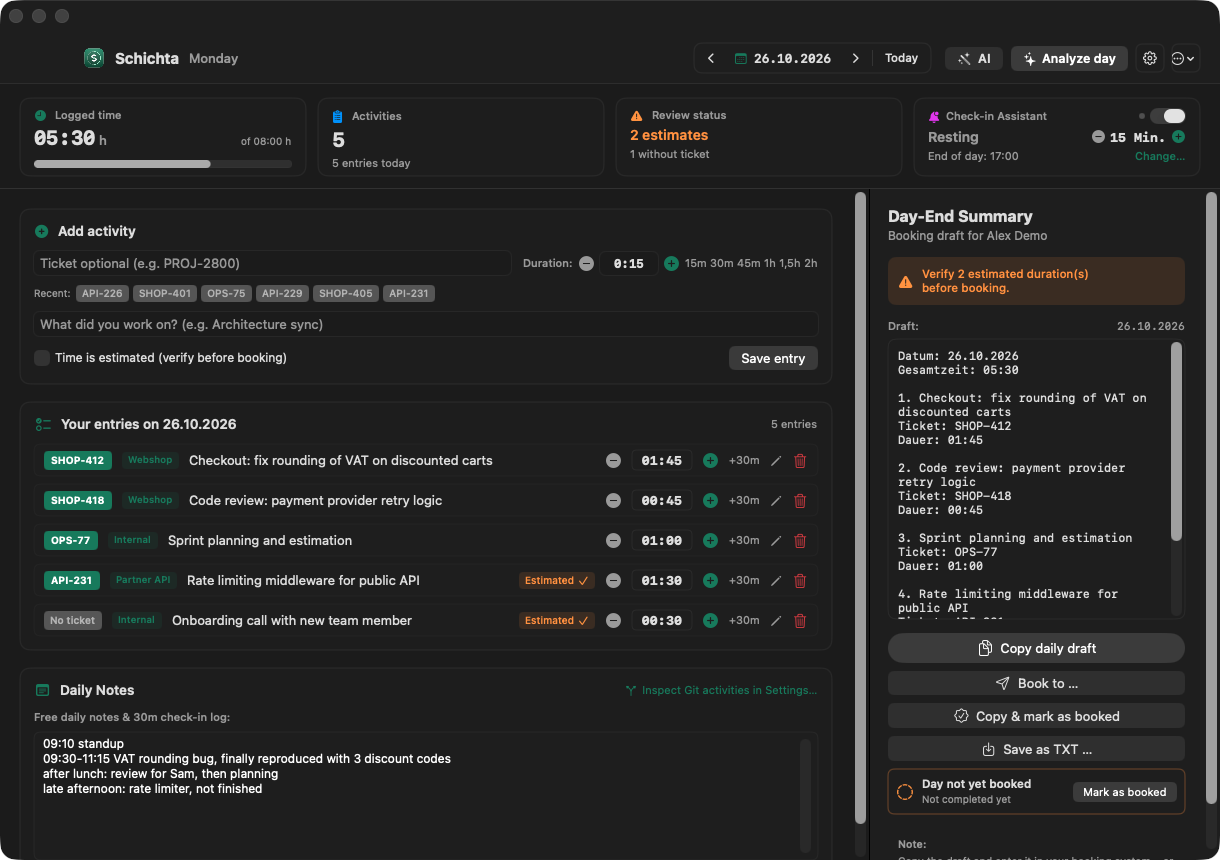
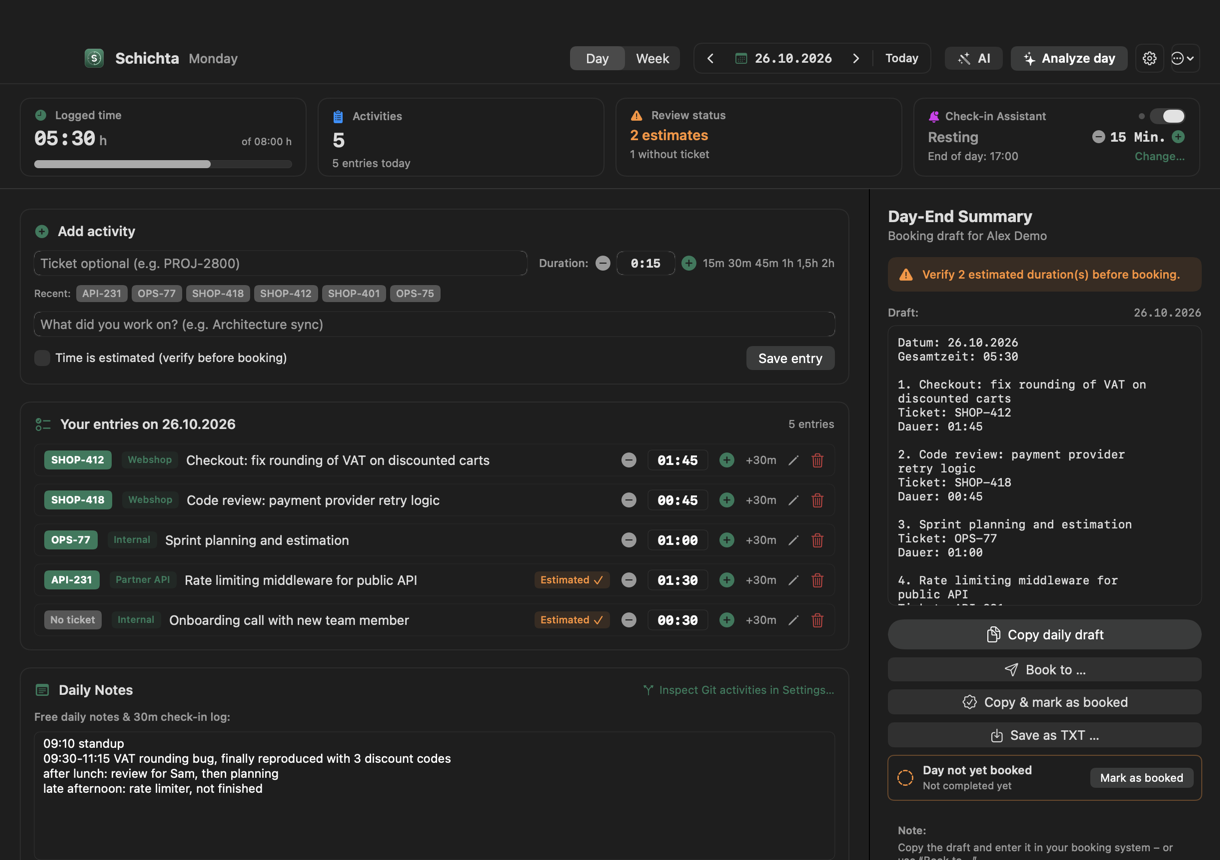
README: quick start, grouped features, shortcuts, new screenshots
- Quick start, features grouped by capture / review / week, keyboard
  shortcuts, time step, overtime account, week booking and CSV export.
- Retake the main window screenshot and add one of the week overview,
  both from demo data.
- SCHICHTA_DATA_DIR runs Schichta on a separate data folder and defaults
  domain (local.schichta.data-dir), so demo data never touches real
  entries or settings.
- --snapshot takes --date and draws the window background, so views
  without their own background render correctly in dark mode.

diff --git a/Sources/Schichta/Support.swift b/Sources/Schichta/Support.swift
@@ -85,14 +85,28 @@ struct SchichtaError: LocalizedError {
 }
 
 enum AppPaths {
-    /// ~/Library/Application Support/Schichta (created on demand).
+    /// SCHICHTA_DATA_DIR runs Schichta on separate data (e.g. demo data for screenshots): the data folder
+    /// moves there and settings go to their own defaults domain, so real entries and settings stay untouched.
+    static let dataDirOverride: String? = ProcessInfo.processInfo.environment["SCHICHTA_DATA_DIR"].flatMap { $0.isEmpty ? nil : $0 }
+
+    /// ~/Library/Application Support/Schichta, or SCHICHTA_DATA_DIR (created on demand).
     static let support: URL = {
-        let base = (try? FileManager.default.url(for: .applicationSupportDirectory, in: .userDomainMask, appropriateFor: nil, create: true))
-            ?? FileManager.default.temporaryDirectory
-        let dir = base.appendingPathComponent("Schichta", isDirectory: true)
+        let dir: URL
+        if let dataDirOverride {
+            dir = URL(fileURLWithPath: dataDirOverride, isDirectory: true)
+        } else {
+            let base = (try? FileManager.default.url(for: .applicationSupportDirectory, in: .userDomainMask, appropriateFor: nil, create: true))
+                ?? FileManager.default.temporaryDirectory
+            dir = base.appendingPathComponent("Schichta", isDirectory: true)
+        }
         try? FileManager.default.createDirectory(at: dir, withIntermediateDirectories: true)
         return dir
     }()
+
+    /// The app's settings, or the `local.schichta.data-dir` domain when SCHICHTA_DATA_DIR is set.
+    static var defaults: UserDefaults {
+        dataDirOverride == nil ? .standard : UserDefaults(suiteName: "local.schichta.data-dir")!
+    }
 }
 
 /// Runs a program with a timeout and collects its output.

diff --git a/Sources/Schichta/main.swift b/Sources/Schichta/main.swift
@@ -21,14 +21,21 @@ if CommandLine.arguments.contains("--generate-icon") {
     }
 } else if let idx = CommandLine.arguments.firstIndex(of: "--snapshot"), idx + 1 < CommandLine.arguments.count {
     // Dev tool: renders the main views offscreen as PNGs (layout check without screen recording).
+    // `--date YYYY-MM-DD` renders that day and its week instead of today.
     let outDir = URL(fileURLWithPath: CommandLine.arguments[idx + 1])
     try? FileManager.default.createDirectory(at: outDir, withIntermediateDirectories: true)
     _ = NSApplication.shared
     let store = SchichtaStore()
+    if let dateIdx = CommandLine.arguments.firstIndex(of: "--date"), dateIdx + 1 < CommandLine.arguments.count {
+        store.selectDay(CommandLine.arguments[dateIdx + 1])
+    }
 
     func render<V: View>(_ view: V, _ size: NSSize, _ name: String) {
         for (suffix, appearance) in [("light", NSAppearance.Name.aqua), ("dark", .darkAqua)] {
-            let host = NSHostingView(rootView: view)
+            // cacheDisplay skips the window's own background, which views without one (the week view) show through.
+            let host = NSHostingView(rootView: view
+                .background(Color(nsColor: .windowBackgroundColor))
+                .environment(\.colorScheme, appearance == .darkAqua ? .dark : .light))
             let win = NSWindow(contentRect: NSRect(origin: .zero, size: size), styleMask: [.titled, .fullSizeContentView], backing: .buffered, defer: false)
             win.appearance = NSAppearance(named: appearance)
             win.contentView = host

diff --git a/Sources/Schichta/Store/SchichtaStore.swift b/Sources/Schichta/Store/SchichtaStore.swift
@@ -204,7 +204,7 @@ class SchichtaStore: ObservableObject {
     }
 
     /// `storeURL` and `defaults` are injectable so tests never touch real entries or settings.
-    init(storeURL: URL = AppPaths.support.appendingPathComponent("schichta.json"), defaults: UserDefaults = .standard) {
+    init(storeURL: URL = AppPaths.support.appendingPathComponent("schichta.json"), defaults: UserDefaults = AppPaths.defaults) {
         try? FileManager.default.createDirectory(at: storeURL.deletingLastPathComponent(), withIntermediateDirectories: true)
         self.storeURL = storeURL
         self.defaults = defaults

diff --git a/Sources/Schichta/AppDelegate.swift b/Sources/Schichta/AppDelegate.swift
@@ -106,7 +106,7 @@ class AppDelegate: NSObject, NSApplicationDelegate, UNUserNotificationCenterDele
 
     func applicationDidFinishLaunching(_ notification: Notification) {
         // Apply the saved time zone before the store computes "today".
-        AppTime.use(AppTime.zone(forIdentifier: UserDefaults.standard.string(forKey: SchichtaStore.timeZoneKey) ?? ""))
+        AppTime.use(AppTime.zone(forIdentifier: AppPaths.defaults.string(forKey: SchichtaStore.timeZoneKey) ?? ""))
         self.store = SchichtaStore()
         AppLanguage.current = store.appLanguage
         applyDockVisibility()

diff --git a/README.md b/README.md
@@ -18,7 +18,9 @@ model, and you can make it a fully local one.
 ## Contents
 
 - [Why Schichta?](#why-schichta)
+- [Quick start](#quick-start)
 - [Features](#features)
+- [Keyboard shortcuts](#keyboard-shortcuts)
 - [Privacy: what Schichta does and does not send](#privacy-what-schichta-does-and-does-not-send)
 - [AI-ready: bring your own model](#ai-ready-bring-your-own-model)
 - [Install](#install)
@@ -52,31 +54,68 @@ your Mac only through a destination you set up yourself: an AI command, a bookin
 hook. AI and booking requests are shown to you in full before anything is sent. Details in
 [Privacy](#privacy-what-schichta-does-and-does-not-send).
 
+## Quick start
+
+1. [Install](#install) Schichta and open it. Its icon appears in the menu bar.
+2. In **Settings › Work Hours & Prompts**, set your working days, hours, daily target and check-in interval.
+3. In **Settings › Git Repos & Inspector**, add the repositories you work in, optionally with a project name and a
+   default ticket each.
+4. Work as usual. When the check-in pops up, type one line and press Enter.
+5. At the end of the day, open the main window, confirm or fix the estimated entries, and book the
+   day: copy the draft, or send it to a [booking target](#integrations).
+
 ## Features
+
+### Capture during the day
 
 - **Menu bar check-ins.** A check-in panel pops up at your chosen interval without stealing the
   keyboard from what you're typing (or press `⌥⌘K` from any app). Save the answer as a timestamped
   note or directly as an estimated entry, or repeat the last one with one click. Unanswered check-ins
-  send a notification after 3 minutes that you can answer in place.
+  send a notification after 3 minutes that you can answer in place. A dot on the menu bar icon shows
+  that a check-in is due.
 - **Away and lunch.** After time away from the Mac (idle, sleep, locked screen) Schichta asks what the
   gap was: a meeting or a break. Before lunch it asks what you did in the morning.
-- **Week overview.** Totals against your weekly target, the week's balance and a running overtime
-  account, booked and open days, time per ticket and project. Copy the week as text, export the month
-  as CSV, or book all open days of the week to a booking target at once.
-- **Days off.** Mark a day as vacation, sick or holiday (right-click it in the week view): no target,
-  no reminders, never "not booked".
-- **Start at login** and an optional menu-bar-only mode without Dock icon, switchable in Settings.
-- **Day view.** Add entries with ticket, project and duration (`1:30`, `1,5` and `1.5` all work).
-  Use quick +/− buttons and a progress bar against your daily target.
-- **Estimates are flagged.** Anything guessed is marked *Estimated* and must be confirmed
-  before you book the day, so nothing invented slips through.
 - **Git activity.** Shows your own commits and HEAD reflog for the day from the repositories you
   pick. Each repository can carry a project name and a default ticket.
-- **Day-end summary.** A booking draft (date, total, description, ticket, duration) that you can
-  copy, save as TXT, or send to a booking target.
 - **Morning and end-of-day reminders** for days that are not booked yet.
+
+### Review the day
+
+- **Day view.** Add entries with ticket, project and duration (`1:30`, `1,5` and `1.5` all work).
+  Use quick +/− buttons and a progress bar against your daily target.
+- **Time step.** Every duration (typed, from a button, a check-in or an AI proposal) is rounded to
+  your time step: 1, 5, 10, 15 (default), 30 or 60 minutes, set in Settings › Work Hours & Prompts. The +/−
+  buttons and quick chips move by one step. Changing the step does not rewrite existing entries.
+- **Estimates are flagged.** Anything guessed is marked *Estimated* and must be confirmed
+  before you book the day, so nothing invented slips through.
 - **AI summary (optional).** Turns notes, Git activity and the day's Claude Code / Codex chats into
   editable proposals. See [AI-ready](#ai-ready-bring-your-own-model).
+- **Day-end summary.** A booking draft (date, total, description, ticket, duration) that you can
+  copy, save as TXT, or send to a booking target.
+
+### Week, month and balance
+
+- **Week overview.** Switch between Day and Week: totals against your weekly target, the week's
+  balance, booked and open days, open estimates, and time per ticket and project. Copy the week as
+  text.
+- **Overtime account.** Set a start date and an opening balance in Settings › Work Hours & Prompts, and the
+  week view shows your running balance from then on.
+- **Book a whole week.** Send every open day of the week to a booking target at once. Each day is
+  previewed first; days with unconfirmed estimates are skipped, entries changed after the preview
+  are not sent, and a day is only marked booked if
+  all of its requests succeed.
+- **Month CSV export.** Opens in Excel and Numbers as is: UTF-8 with BOM, and in German `;` as
+  separator with decimal commas. Cells that would start a spreadsheet formula are defused.
+- **Days off.** Mark a day as vacation, sick or holiday (right-click it in the week view, or use
+  the "…" menu): no target, no reminders, never "not booked".
+
+<p align="center">
+  <img src="docs/screenshots/week-overview.png" alt="Week overview: daily totals against the target, booked, open and vacation days, week balance, overtime account and time per ticket" width="820">
+</p>
+
+### Fits your Mac
+
+- **Start at login** and an optional menu-bar-only mode without Dock icon, switchable in Settings.
 - **Booking targets.** Connect Clockify or any HTTP time-tracking API through a JSON file,
   with no code changes.
 - **Your time zone.** Days start and end in the system time zone, or in one you pick in Settings.
@@ -92,6 +131,18 @@ hook. AI and booking requests are shown to you in full before anything is sent. 
     <td align="center"><sub>Tracked repositories with project name and default ticket</sub></td>
   </tr>
 </table>
+
+## Keyboard shortcuts
+
+| Shortcut | Action |
+| --- | --- |
+| `⌥⌘K` | Open the check-in from any app (no Accessibility permission needed) |
+| `⌘K` | Open the check-in while Schichta is active |
+| `⌘0` | Show the main window |
+| `⌘,` | Settings |
+| `⌘Return` | Save the entry in the day view |
+| `Return` | Save the check-in answer |
+| `Return` / `Esc` | Send / cancel in the AI and week-booking previews |
 
 ## Privacy: what Schichta does and does not send
 
@@ -223,6 +274,9 @@ Optional environment variables:
 | `SIGN_IDENTITY` | `-` (ad-hoc) | e.g. `Developer ID Application: Jane Doe (TEAMID)`; enables the hardened runtime |
 | `APP` | `Schichta.app` | Output path |
 
+If Schichta is running while you rebuild, quit it and open the new `Schichta.app`; the script
+warns you when the old build is still running.
+
 ## Integrations
 
 ### Booking targets (Clockify and any HTTP API)
@@ -290,6 +344,15 @@ cd adapters/bcs && npm install && npm test
 `test.sh` runs `swift test` (Swift Testing, `Tests/SchichtaTests`); with Xcode installed, plain
 `swift test` works too. Tests use a temporary database and their own user-defaults domains
 (`local.schichta.tests.*`), so they never touch your real entries or settings.
+
+**Screenshots.** Everything in `docs/screenshots` uses invented demo data. To run Schichta on
+separate data, set `SCHICHTA_DATA_DIR`: the data file then lives in that folder and settings go to
+the `local.schichta.data-dir` defaults domain. `--snapshot` renders the main views offscreen, in
+light and dark, without needing screen recording:
+
+```bash
+SCHICHTA_DATA_DIR=/tmp/schichta-demo "$(swift build --show-bin-path)/Schichta" --snapshot /tmp/shots --date 2026-10-22
+```
 
 ## Releasing
 
